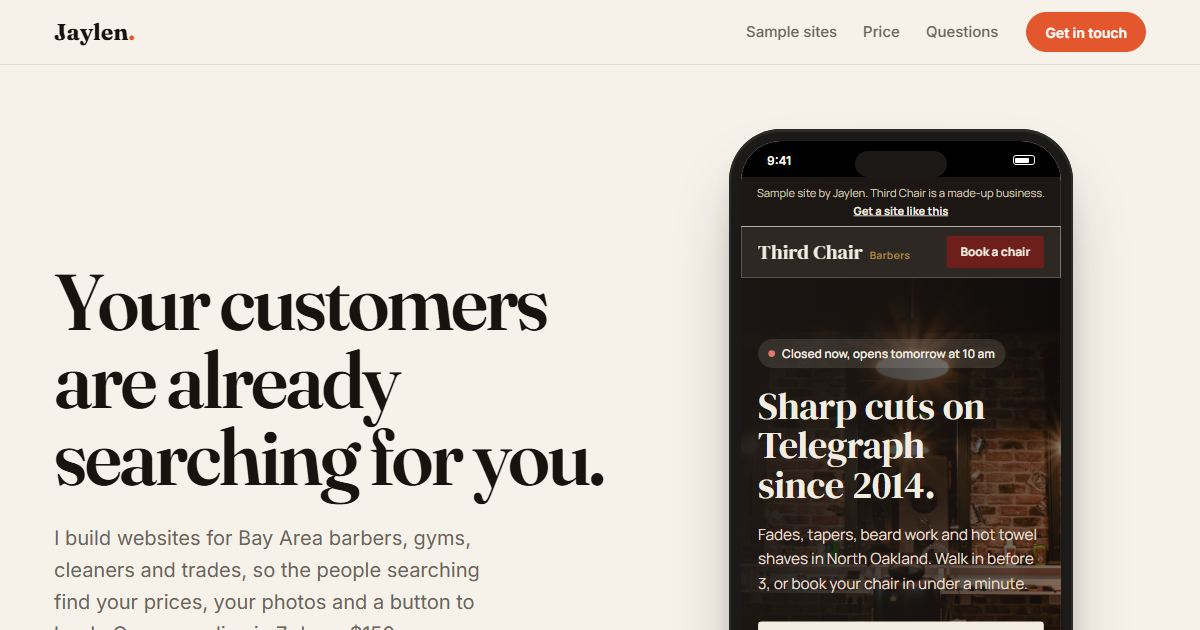
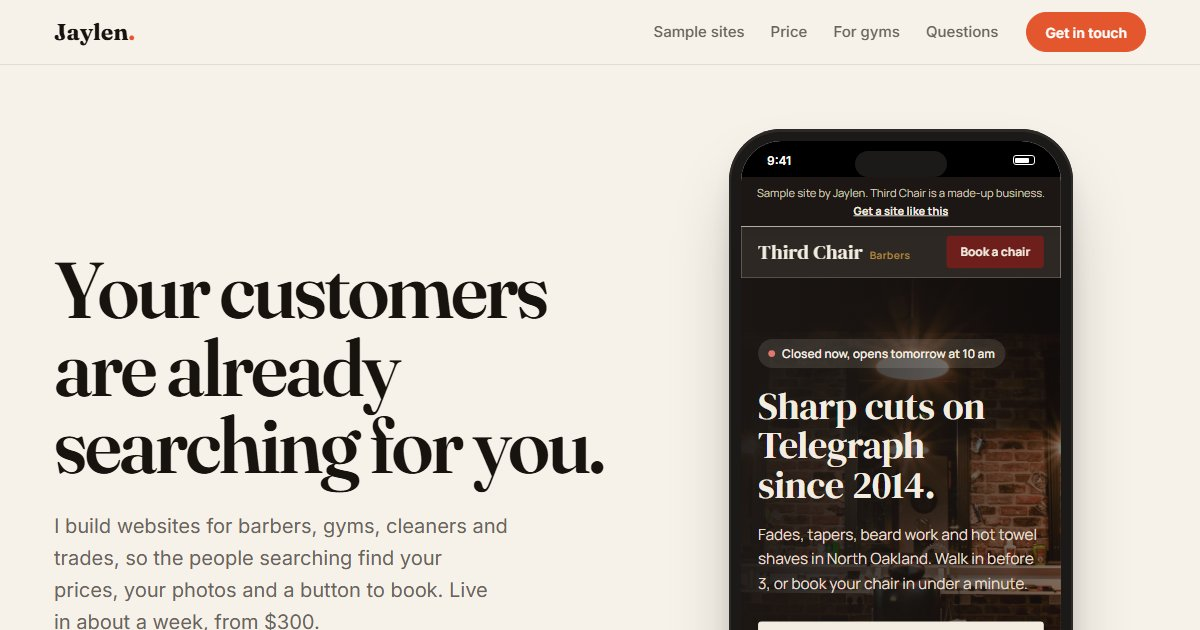
Portfolio: Starter $300, care plan, clients anywhere, links to gym page
- Offer $150 introductory -> Starter $300, 50/50 payment, optional $50/mo care plan
- "Bay Area businesses" -> local businesses anywhere in the US (Bay Area-based)
- "For gyms" in nav and footer; gym sample and offer link to gyms/
- FAQ: existing websites (old site stays up until approval), care plan, quoted edits after launch
- Share image regenerated (og.jpg)

Changed region(s): [[0.0308, 0.3921, 0.5242, 1.0], [0.5242, 0.0302, 0.74, 0.0603]]

diff --git a/index.html b/index.html
@@ -3,12 +3,12 @@
 <head>
 <meta charset="utf-8">
 <meta name="viewport" content="width=device-width, initial-scale=1">
-<title>Jaylen · Websites for Bay Area businesses</title>
-<meta name="description" content="I build websites for Bay Area barbers, gyms, cleaners and trades. One page, live on every phone in 7 days, for $150.">
+<title>Jaylen · Websites for local businesses</title>
+<meta name="description" content="I build websites for barbers, gyms, cleaners and trades. Live on every phone in about a week, from $300.">
 <meta name="theme-color" content="#f6f2ea">
 <meta property="og:type" content="website">
-<meta property="og:title" content="Websites for Bay Area businesses, $150">
-<meta property="og:description" content="Barbers, gyms, cleaners and trades: a one-page website, live on every phone in 7 days.">
+<meta property="og:title" content="Websites for local businesses, from $300">
+<meta property="og:description" content="Barbers, gyms, cleaners and trades: a website that's live on every phone in about a week.">
 <meta property="og:url" content="https://darkmystiic.github.io/portfolio/">
 <meta property="og:image" content="https://darkmystiic.github.io/portfolio/assets/og.jpg">
 <meta property="og:image:width" content="1200">
@@ -112,6 +112,8 @@
   .shot .bar i { width: 10px; height: 10px; border-radius: 50%; background: #d6cdbf; }
   .shot img { width: 100%; height: auto; aspect-ratio: 16 / 10; object-fit: cover; object-position: top; }
   .note { margin-top: 48px; font-size: 15px; color: var(--muted); }
+  .sample .links { display: flex; align-items: center; gap: 12px 20px; flex-wrap: wrap; }
+  .more { font-weight: 600; font-size: 15px; color: var(--accent-deep); text-underline-offset: 3px; }
 
   /* CombatLab */
   .feature { background: var(--dark); color: #f3f1ec; border-radius: 28px; overflow: hidden; margin-top: 48px; display: grid; grid-template-columns: 1.1fr 1fr; }
@@ -233,6 +235,7 @@
     <ul>
       <li><a href="#samples">Sample sites</a></li>
       <li><a href="#offer">Price</a></li>
+      <li><a href="gyms/">For gyms</a></li>
       <li><a href="#questions">Questions</a></li>
     </ul>
     <a class="btn primary" href="#contact">Get in touch</a>
@@ -244,12 +247,12 @@
   <div class="wrap">
     <div>
       <h1>Your customers are already searching for you.</h1>
-      <p class="lede">I build websites for Bay Area barbers, gyms, cleaners and trades, so the people searching find your prices, your photos and a button to book. One page, live in 7 days, $150.</p>
+      <p class="lede">I build websites for barbers, gyms, cleaners and trades, so the people searching find your prices, your photos and a button to book. Live in about a week, from $300.</p>
       <div class="ctas">
         <a class="btn primary" href="#samples">See the sample sites</a>
         <a class="btn ghost" href="#contact">Ask me a question</a>
       </div>
-      <p class="local">Based in the Bay Area. You deal with me, not an agency.</p>
+      <p class="local">Based in the Bay Area, working with businesses anywhere in the US. You deal with me, not an agency.</p>
     </div>
     <div class="stage">
       <div class="phone">
@@ -327,7 +330,7 @@
             <li>Any class books straight into the free-trial form</li>
             <li>Pricing with no small print: no contract, cancel by text</li>
           </ul>
-          <a class="btn ghost" href="samples/gym/" target="_blank" rel="noopener">Open the gym site</a>
+          <div class="links"><a class="btn ghost" href="samples/gym/" target="_blank" rel="noopener">Open the gym site</a><a class="more" href="gyms/">Run a fight gym? See gym packages</a></div>
         </div>
         <a class="shot" href="samples/gym/" target="_blank" rel="noopener" aria-label="Open the gym sample site"><div class="bar"><i></i><i></i><i></i></div><img src="assets/sample-gym.jpg" alt="Fogline gym homepage: a bold headline, Learn to fight, next to a blue-tinted sparring photo" width="1280" height="800" loading="lazy"></a>
       </article>
@@ -385,16 +388,16 @@
 <section class="offer" id="offer">
   <div class="wrap">
     <div class="head">
-      <h2>Your website, done properly, for $150.</h2>
-      <p>I'm taking on my first Bay Area clients, so you get the same care as the samples above at an introductory price.</p>
+      <h2>Your website, done properly, from $300.</h2>
+      <p>The same care as the samples above, at a fixed price you know before anything starts. Half to begin, half when it goes live.</p>
     </div>
     <div class="offer-box">
       <div class="price">
-        <span class="ribbon">Introductory price</span>
-        <div class="amount"><sup>$</sup>150</div>
-        <p class="per">One time. No monthly fee from me.</p>
+        <span class="ribbon">Starter</span>
+        <div class="amount"><sup>$</sup>300</div>
+        <p class="per">One time. Hosting is free; an optional $50/mo care plan covers changes.</p>
         <a class="btn primary" href="#contact">Start my website</a>
-        <small>Need more pages or online booking? Ask, and I'll quote it up front.</small>
+        <small>Need more pages, online booking or a redesign? Ask, and I'll quote it up front. Fight gyms: <a href="gyms/">see gym packages</a>.</small>
       </div>
       <ul class="includes">
         <li><span class="tick" aria-hidden="true">✓</span><div><b>A one-page site designed for your business</b><span>Up to 5 sections, like prices, about, photos, reviews and contact. Not a template.</span></div></li>
@@ -424,10 +427,11 @@
     <div class="head"><h2>Questions owners ask</h2></div>
     <div>
       <details><summary>Do I need to buy a domain name?</summary><p>No. Your site can go live on a free address. A name of your own, like thirdchairbarbers.com, costs about $12 a year from any domain seller, and I'll connect it for you.</p></details>
-      <details><summary>Are there monthly fees?</summary><p>Not from me, and the hosting I set up is free. The only ongoing cost is your domain, if you choose to have one.</p></details>
+      <details><summary>I already have a website.</summary><p>Same price. I rebuild it on the new design, your old site stays up while you review the new one on a private link, and we switch over on your domain once you approve it.</p></details>
+      <details><summary>Are there monthly fees?</summary><p>None required. The hosting I set up is free and your domain is about $12 a year. If you'd rather text me changes than make them yourself, there's an optional $50/mo care plan.</p></details>
       <details><summary>Who writes the words?</summary><p>I do, from what you tell me about your business. You read it, and anything that doesn't sound like you gets changed.</p></details>
       <details><summary>I don't have good photos.</summary><p>Phone photos of your work are usually enough, and I'll pick the best. Where there are gaps, I use licensed stock photos that fit.</p></details>
-      <details><summary>Can I change things later?</summary><p>Yes. Two rounds of changes are included before launch, and after that you can email me when your prices or hours change.</p></details>
+      <details><summary>Can I change things later?</summary><p>Yes. Two rounds of changes are included before launch. After that, the care plan covers changes, or I quote small changes before I start.</p></details>
       <details><summary>How long does it take?</summary><p>A first version within a few days and live in about a week, depending on how fast we go back and forth.</p></details>
     </div>
   </div>
@@ -470,8 +474,8 @@
 
 <footer>
   <div class="wrap">
-    <span>© 2026 Jaylen. Websites for Bay Area businesses.</span>
-    <span><a href="https://darkmystiic.github.io/combatlab/" target="_blank" rel="noopener">CombatLab</a> · <a href="mailto:jaylendgotico@gmail.com">Email</a></span>
+    <span>© 2026 Jaylen. Websites for local businesses.</span>
+    <span><a href="gyms/">For gyms</a> · <a href="https://darkmystiic.github.io/combatlab/" target="_blank" rel="noopener">CombatLab</a> · <a href="mailto:jaylendgotico@gmail.com">Email</a></span>
   </div>
 </footer>
 

diff --git a/BRIEF.md b/BRIEF.md
@@ -3,7 +3,7 @@
 **Job:** a Bay Area business owner texts or emails Jaylen about a website.
 **Reader:** an owner of a barbershop, gym, cleaning company, landscaping business or trade. They have no website (or a bad one). Most found Jaylen from a text he sent them, so they read it on a phone, between jobs, in under a minute.
 **5-second test:** what = websites; for whom = Bay Area local businesses; action = see the samples / get in touch.
-**Offer:** $150 one-page site (tiers later, not yet).
+**Offer:** $150 one-page site (tiers later, not yet). **2026-11-01 update (owner):** Starter $300, optional $50/mo care plan, clients anywhere in the US (Bay Area-based); gym packages on `gyms/`.
 **Contact:** email only (form + direct address); no texting or calls for now (owner, 2026-11-01). Name + city, no photo.
 
 ## Look: warm editorial, upgraded
